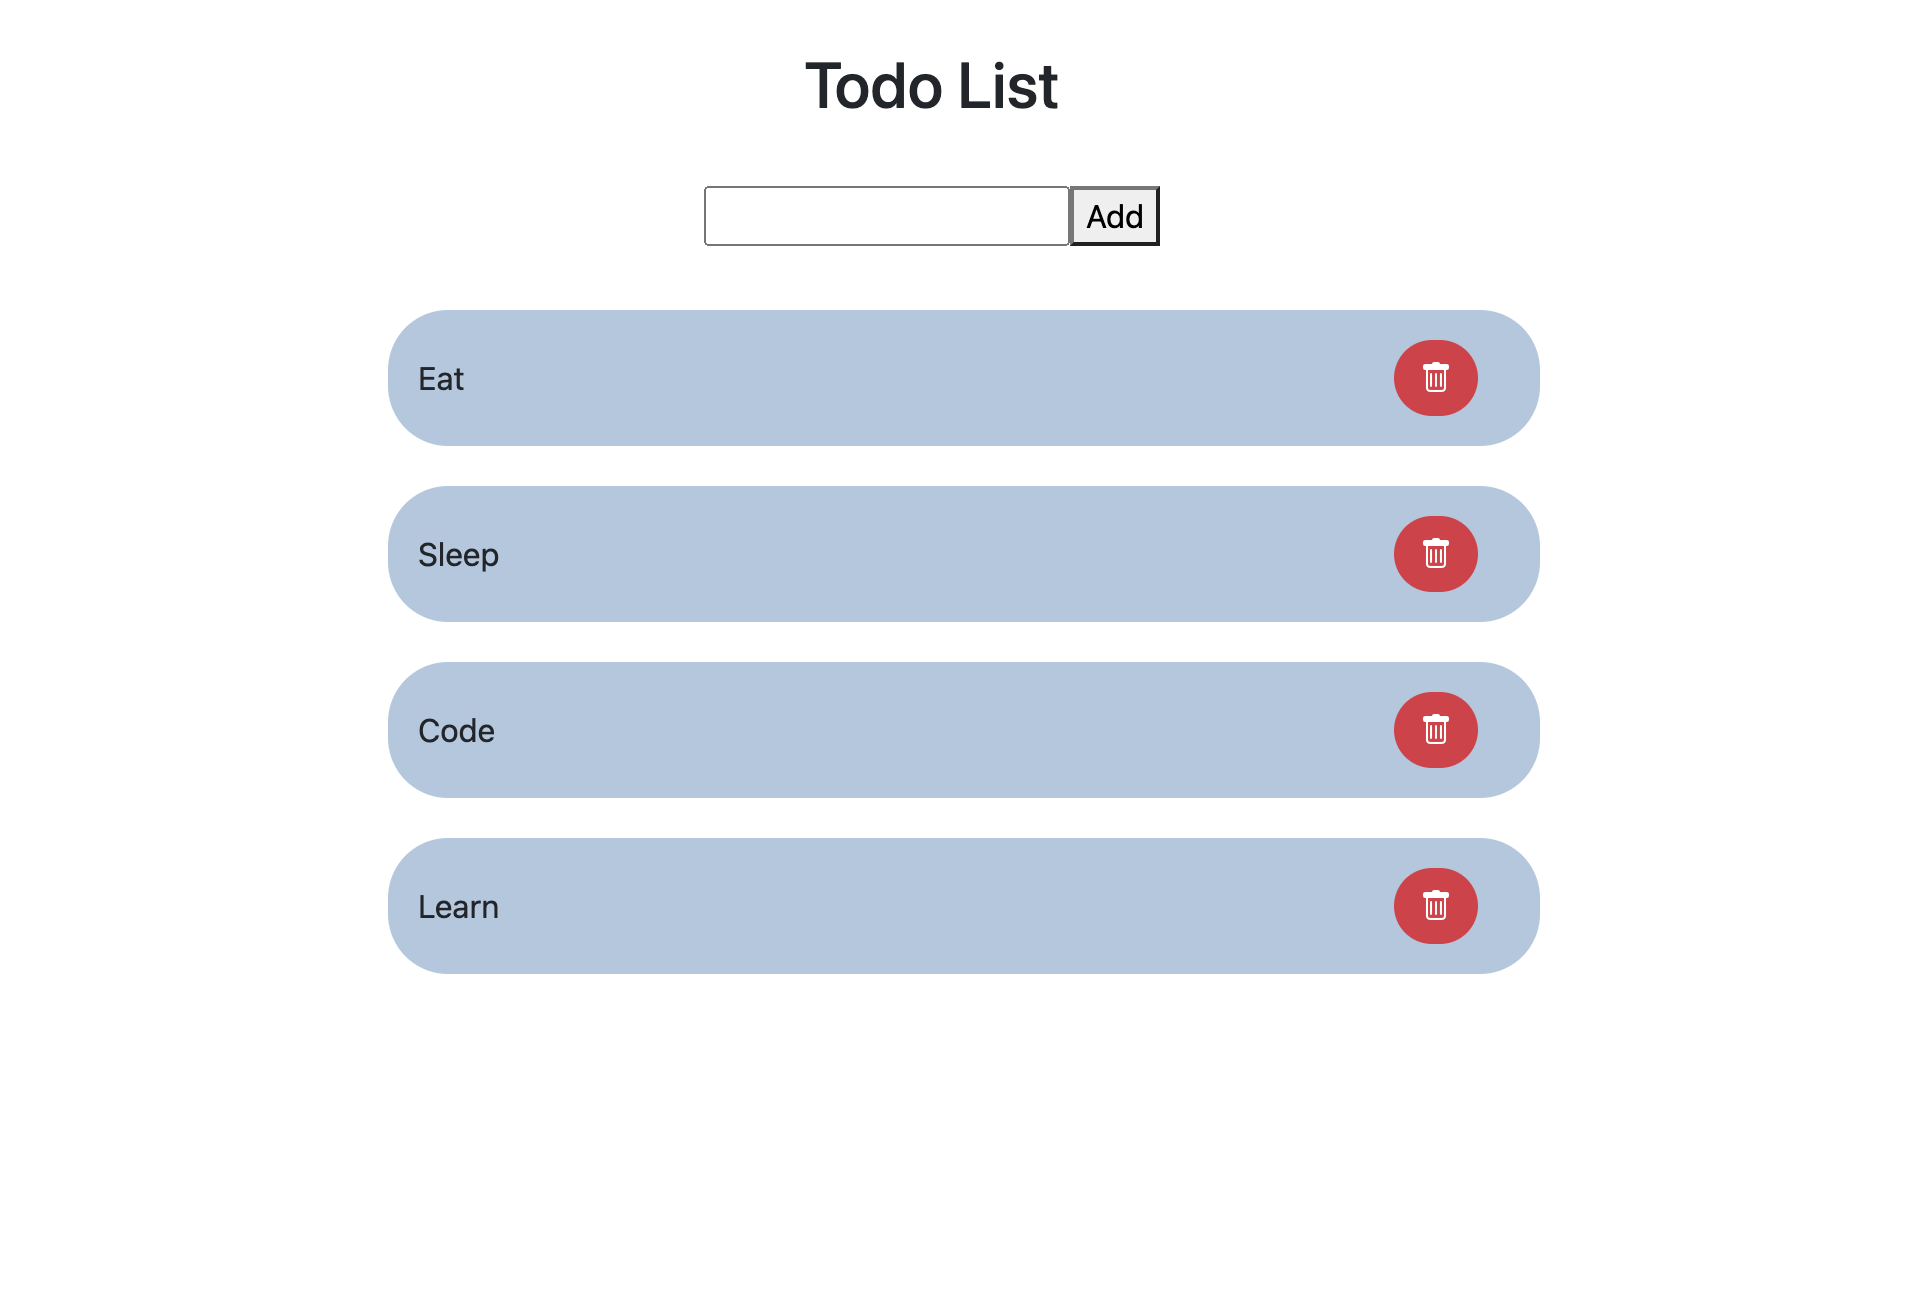
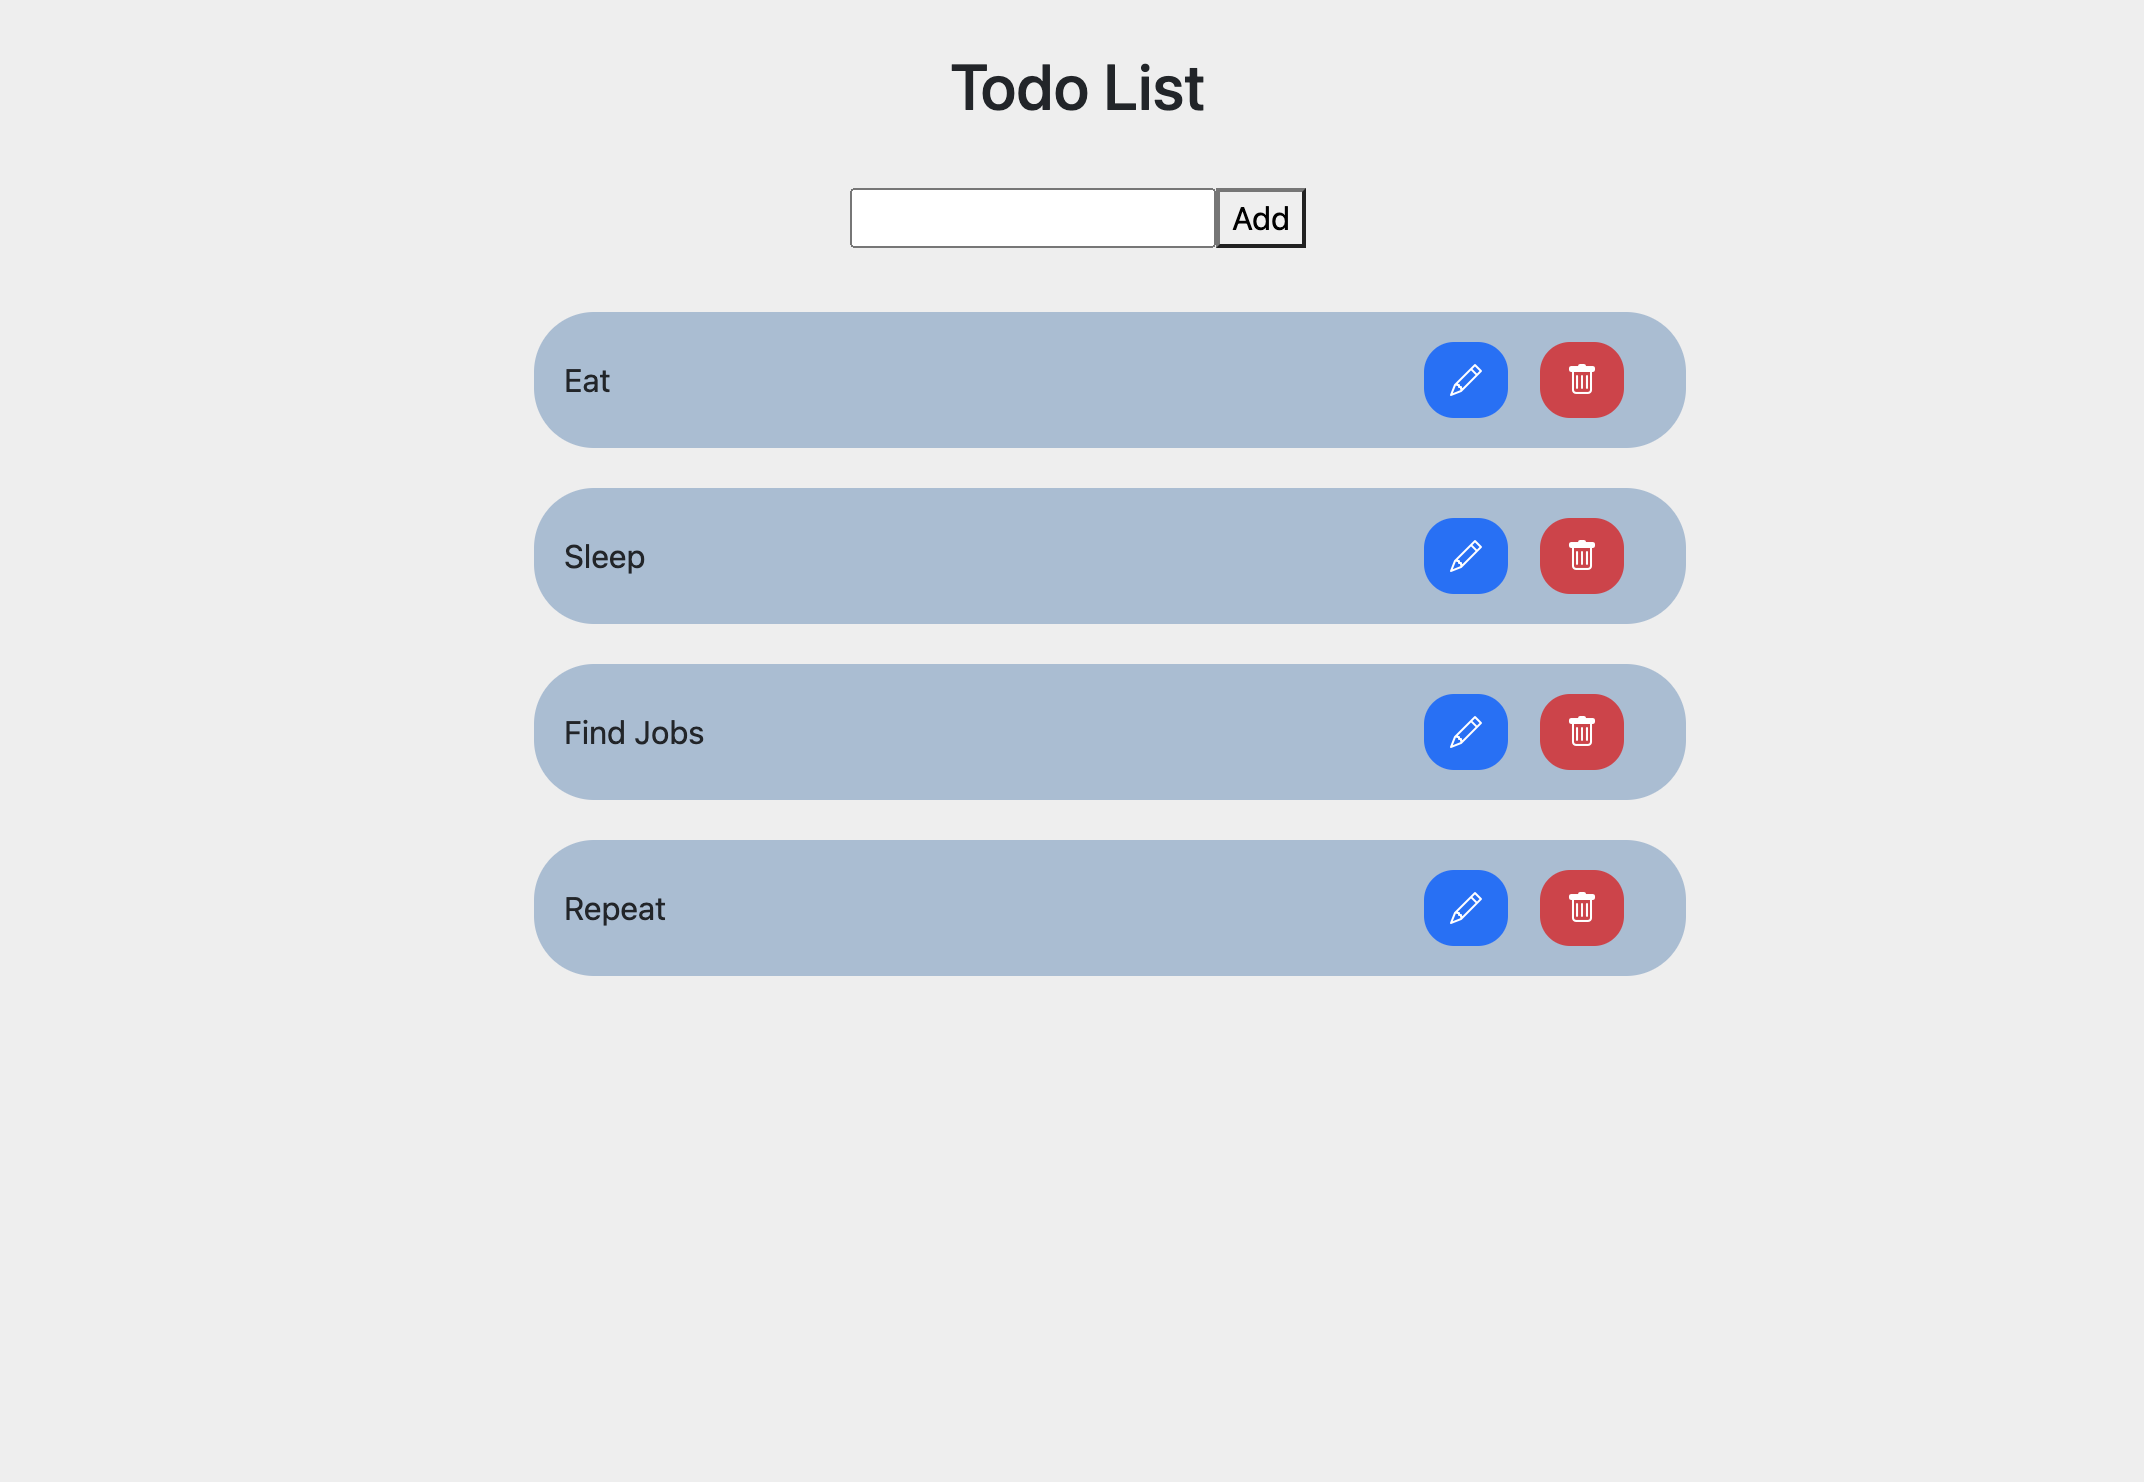
3Jan

Changed region(s): [[0.1848, 0.1228, 0.8006, 0.7675], [0.4311, 0.0307, 0.5543, 0.0921]]

diff --git a/src/Apps/Todo-List/Todo-Create/TodoCreate.js b/src/Apps/Todo-List/Todo-Create/TodoCreate.js
@@ -22,10 +22,20 @@ const TodoCreate = (props) => {
     }
 
     return (
-        <form className='todo-form' onSubmit={handleSubmit}>
-            <input type="text" value={props.getInputTodo} onChange={handleInputTodo}/>
-            <button type="submit">{props.isEditing ? 'Save' : 'Add'}</button>
-        </form>
+
+        // <form class="input-group mb-3" onSubmit={handleSubmit}>
+        //     <input type="text" value={props.getInputTodo} onChange={handleInputTodo} className="form-control" placeholder="Recipient's username" aria-label="Recipient's username" aria-describedby="button-addon2"/>
+        //     <button class="btn btn-outline-secondary" type="submit" id="button-addon2">{props.isEditing ? 'Save' : 'Add'}</button>
+        // </form>
+        <div className='form justify-align-center'>
+            <form onSubmit={handleSubmit}>
+                <input type="text" value={props.getInputTodo} onChange={handleInputTodo}/>
+                <button type="submit">{props.isEditing ? 'Save' : 'Add'}</button>
+                {/* <label for="name" className='label-name'>
+                    <span className='content-name'>Name</span>
+                </label> */}
+            </form>
+        </div>
     )
 }
 

diff --git a/src/Apps/Todo-List/Todo-Create/TodoCreate.css b/src/Apps/Todo-List/Todo-Create/TodoCreate.css
@@ -1,4 +1,56 @@
-.todo-form {
+.form {
     margin: 2rem;
     text-align: center;
 }
+
+
+/* .form {
+    width: 50%;
+    position: relative;
+    height: 50%;
+}
+
+.form input {
+    width: 100%;
+    height: 100%;
+    color: #595f6e;
+    padding-top: 20px;
+    border: none;
+    outline: none;
+}
+
+.form label{
+    position: absolute;
+    bottom: 0px;
+    left: 0%;
+    width: 100%;
+    height: 100%;
+    pointer-events: none;
+    border-bottom: 1px solid black;
+}
+
+.form label::after {
+    content: "";
+    position: absolute;
+    left: 0px;
+    bottom: -1px;
+    height: 100%;
+    width: 100%;
+    border-bottom: 3px solid #5fa8d3;
+    transform: translateX(-100%);
+}
+
+.content-name {
+    position: absolute;
+    bottom: 5px;
+    left: 0px;
+    transition: all 0.3s ease;
+}
+
+.form input:focus + .label-name .content-name,
+.form input:focus + .label-name .content-name {
+    transform: translateY(-150%);
+    font-size: 14px;
+    color: #5fa8d3;
+
+} */

diff --git a/src/Pages/Home.js b/src/Pages/Home.js
@@ -14,14 +14,14 @@ function Buttons () {
 function Home () {
     return (
     <div className="marginTop">
-      <div class="row mx-0 d-flex w-100 p-relative justify-content-center">    
+      <div class="row mx-0 d-flex w-100 p-relative justify-content-center"> 
         
         <div class="div1 col-12 col-md-6 col-lg-5 col-xl-6 d-flex justify-content-end align-items-end">
           <img className="profile mt-xl-0 mt-lg-5" src={img} alt=""/>
         </div>
 
         <div className="div2 col-12 col-md-6 col-xl-6 col-lg-7 px-5">
-          <div className="hello">Hello</div>
+          <div className="hello me-3">Hello</div>
           <h3>A Bit About Me</h3>
           <p>I'am currently in progress developing myself to learn about frontend and web programming. I'am interested in meeting new people and learning new things to improve my skill and knowledge.</p>
           

diff --git a/src/App.css b/src/App.css
@@ -2,6 +2,8 @@
     background-color: #d1d1d1;
 }
 
+@import url('https://fonts.googleapis.com/css2?family=Work+Sans:wght@350&display=swap');
+
 .profile{
     border-radius: 50%;
     width: 100%;
@@ -11,7 +13,8 @@
 
 .hello{
     font-size: 100px;
-    letter-spacing: -0.02em;
+    letter-spacing: -0.07em;
+    font-family: 'Work Sans', sans-serif;
 }
 
 @media only screen and (min-width: 992px) {
@@ -98,9 +101,5 @@ span {
 .App {
     background-color: #eeeeee;
     min-height: 100vh;
-}
-
-.hover:hover {
-    box-shadow: 1px 1px 2px 1px #d1d1d1;
-    transform: translateX(20px);
+    /* background-color: #fffafa; */
 }

diff --git a/src/Apps/News-API/index.js b/src/Apps/News-API/index.js
@@ -10,7 +10,7 @@ function Main () {
         if(!keyword) { // jika tidak ada keyword maka berhenti/tidak melakukan apa" 
             return 
         }
-        var url = `https://newsapi.org/v2/everything?q=${keyword}&from=2021-12-01&to=2021-12-25&sortBy=popularity&apiKey=764d4ff2218f4147a1a15be747698952`
+        var url = `https://newsapi.org/v2/everything?q=${keyword}&from=2021-30-01&to=2021-12-25&sortBy=popularity&apiKey=764d4ff2218f4147a1a15be747698952`
         setIsLoading(true);
         fetch(url) 
         .then(result => result.json())
